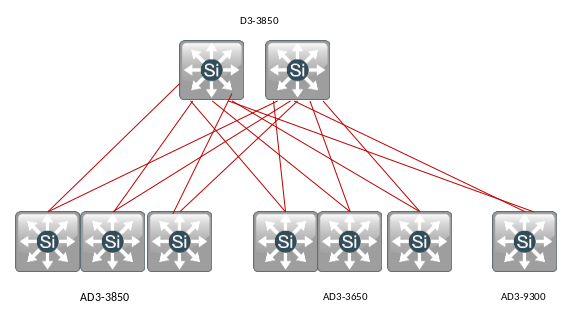
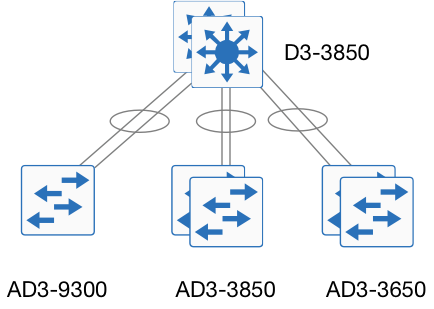
Updates to README and doc images

Changed region(s): [[0.0, 0.0, 0.9885, 0.9903], [0.659, 0.1456, 0.8687, 0.2039]]

diff --git a/campus-lan-layer-2-access/ansible/README.md b/campus-lan-layer-2-access/ansible/README.md
@@ -1,4 +1,4 @@
-Cisco IOS-XE Automation via Netconf
+Cisco IOS-XE Automation via NETCONF
 ===================================
 
 The objective of this README is to provide documentation for the playbooks related to Cisco's [Campus LAN Layer 2 Access with Simplified Distribution Deployment Guide](https://www.cisco.com/c/dam/en/us/td/docs/solutions/CVD/Oct2015/CVD-Campus_LAN_L2_Access_Simplified_Dist_Deployment-Oct2015.pdf).
@@ -14,29 +14,28 @@ Each playbook executes the tasks in a given role based on the procedures defined
 
 ### Note about zero-touch or power-on provisioning
 
-These playbooks do not handle out-of-box configuration and require a miniminum amount of configuration and connectivity to work.  We assume the device can be reached via SSH from the Ansible server and that at least one admin (privilege 15) account is present.  It is highly recommended that HA and VSS configuration be done ahead of time as part of the bootstrap configuration as well.
+These playbooks do not handle out-of-box configuration and require a minimum amount of configuration and connectivity to work.  We assume the device can be reached via SSH from the Ansible server and that at least one admin (privilege 15) account is present.  It is highly recommended that HA and VSS configuration be done ahead of time as part of the bootstrap configuration as well.
 
 ## Tested Topology
 
 | Hostname | Device information |
 | -------- | ------------------ |
 | D3-3850 | WS-C3850 stacked distribution switch. |
+| AD3-9300 | C9300 standalone access switch. |
 | AD3-3850 | WS-C3850 stacked access switch. |
 | AD3-3650 | WS-C3650 stacked access switch. |
-| AD3-9300 | C9300 standalone access switch. |
 
 ![ Tested Topology ](docs/topology.png)
 
 ## Tested platorms and software
 
-| Platform                | Software                                  |
-| ----------------------- | ----------------------------------------- |
-| WS-C3850-12X48U         | CAT3K_CAA-UNIVERSALK9-M Version 16.6.2    |
-| WS-C3850-24XU           | CAT3K_CAA-UNIVERSALK9-M Version 16.6.2    |
-| WS-C3850-24XS           | CAT3K_CAA-UNIVERSALK9-M Version 16.6.2    |
-| WS-C3650-48PS           | CAT3K_CAA-UNIVERSALK9-M Version 16.6.2    |
-| C9300-48U               | CAT9K_IOSXE Version 16.6.2                |
-
+| Platform      | PID                     | Software                                  | 
+| ------------- | ----------------------- | ----------------------------------------- |
+| Catalyst 9000 | C9300-48U               | CAT9K_IOSXE Version 16.6.2                |
+| Catalyst 3850 | WS-C3850-12X48U         | CAT3K_CAA-UNIVERSALK9-M Version 16.6.2    |
+| Catalyst 3850 | WS-C3850-24XU           | CAT3K_CAA-UNIVERSALK9-M Version 16.6.2    |
+| Catalyst 3850 | WS-C3850-24XS           | CAT3K_CAA-UNIVERSALK9-M Version 16.6.2    |
+| Catalyst 3650 | WS-C3650-48PS           | CAT3K_CAA-UNIVERSALK9-M Version 16.6.2    |
 
 
 ## Playbooks
